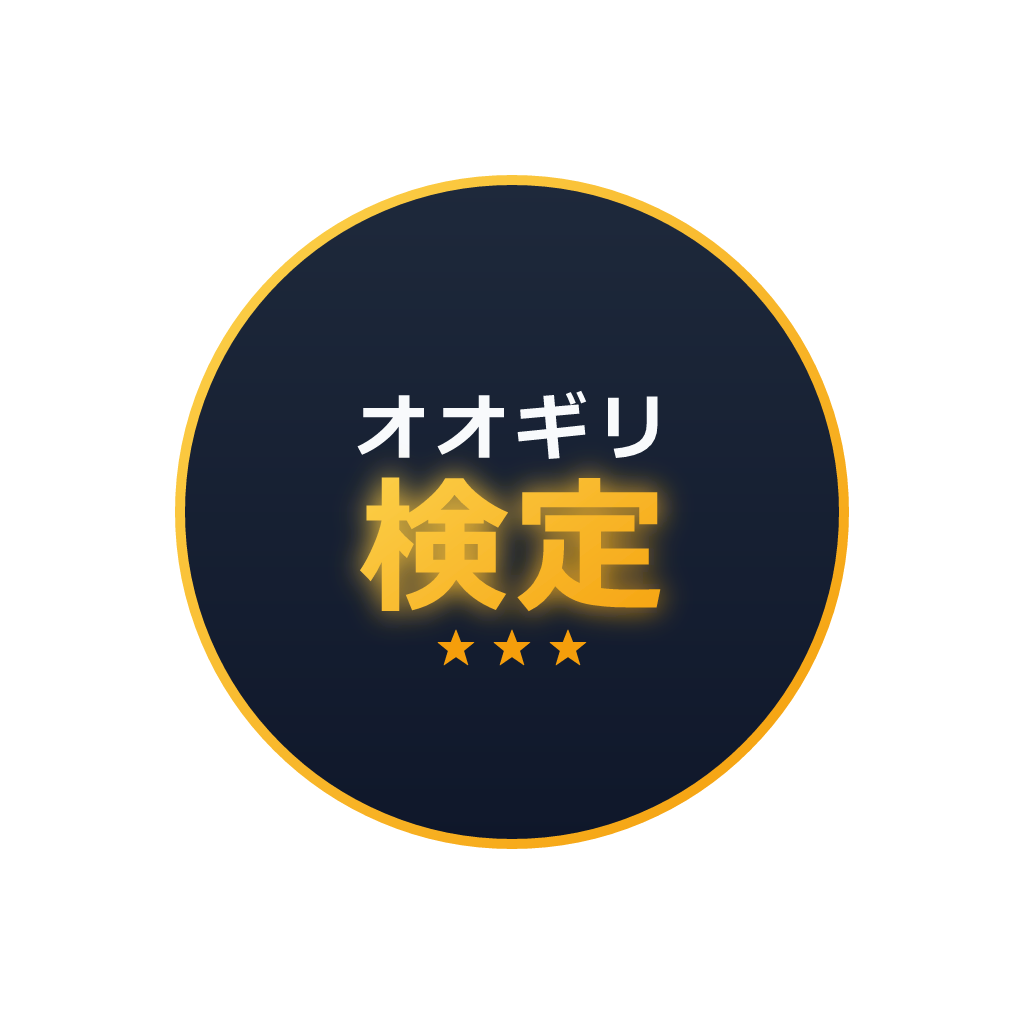
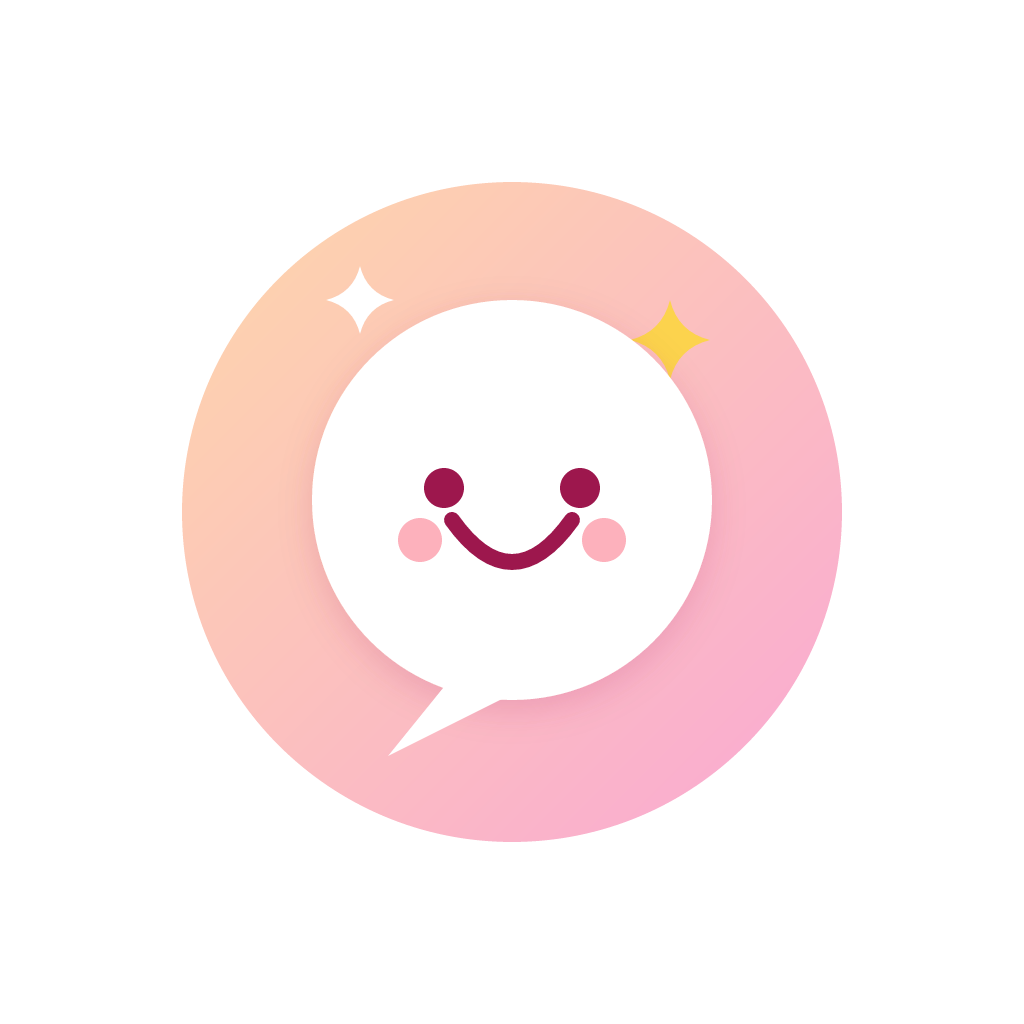
ロゴをやわらかく可愛いデザインに刷新（女性向け）
- ふきだし風にこちゃん＋パステル(ピーチ×ピンク)＋キラキラの可愛いロゴに
  （icon/adaptive/splash/logo/og/logo-wide を再生成）
- スプラッシュ/アダプティブ背景をパステルピンクに変更しロゴと調和

diff --git a/scripts/generate-icons.js b/scripts/generate-icons.js
@@ -1,6 +1,5 @@
 // オオギリ検定 ブランドロゴ／アイコン生成スクリプト
-// 世界観: ダークネイビー × ゴールド（TOEIC/G検定のような「能力検定」トーン）。
-// SVG を定義し @resvg/resvg-js で各サイズの PNG にラスタライズ。日本語は Meiryo。
+// 世界観: やわらかく可愛い（女性向け）。パステルのピーチ×ピンク＋にこちゃん＋キラキラ。
 const fs = require('fs');
 const path = require('path');
 const { Resvg } = require('@resvg/resvg-js');
@@ -9,96 +8,107 @@ const ROOT = path.resolve(__dirname, '..');
 const FONT = 'Meiryo';
 
 const C = {
-  navy1: '#1E293B', // 背景グラデ上
-  navy2: '#0F172A', // 背景グラデ下
-  gold: '#F59E0B',
-  goldLight: '#FCD34D',
-  white: '#F8FAFC',
-  sub: '#94A3B8',
-  purple: '#7C3AED',
+  peach: '#FED7AA',
+  pink: '#F9A8D4',
+  pinkSoft: '#FBCFE8',
+  white: '#FFFFFF',
+  face: '#9D174D', // 目・口（濃いローズ）
+  cheek: '#FB7185',
+  gold: '#FCD34D',
+  name: '#9D174D',
+  navy: '#0F172A',
+  sub: '#B45C81',
 };
 
 const defs = `
-  <linearGradient id="bg" x1="0" y1="0" x2="0" y2="1">
-    <stop offset="0" stop-color="${C.navy1}"/>
-    <stop offset="1" stop-color="${C.navy2}"/>
+  <linearGradient id="bg" x1="0" y1="0" x2="1" y2="1">
+    <stop offset="0" stop-color="${C.peach}"/>
+    <stop offset="1" stop-color="${C.pink}"/>
   </linearGradient>
-  <linearGradient id="goldg" x1="0" y1="0" x2="1" y2="1">
-    <stop offset="0" stop-color="${C.goldLight}"/>
-    <stop offset="1" stop-color="${C.gold}"/>
-  </linearGradient>
-  <filter id="glow" x="-60%" y="-60%" width="220%" height="220%">
-    <feGaussianBlur stdDeviation="14" result="b"/>
-    <feMerge><feMergeNode in="b"/><feMergeNode in="SourceGraphic"/></feMerge>
+  <filter id="soft" x="-30%" y="-30%" width="160%" height="160%">
+    <feDropShadow dx="0" dy="10" stdDeviation="16" flood-color="#9D174D" flood-opacity="0.15"/>
   </filter>`;
 
-// 認定シール（金リング＋オオギリ／検定／★★★）。座標は 1024 系。
-function sealBody(withBg) {
+// キラキラ（4ポイントの星）
+function sparkle(cx, cy, s, color) {
+  return `<path d="M ${cx} ${cy - s} Q ${cx + s * 0.2} ${cy - s * 0.2} ${cx + s} ${cy}
+    Q ${cx + s * 0.2} ${cy + s * 0.2} ${cx} ${cy + s}
+    Q ${cx - s * 0.2} ${cy + s * 0.2} ${cx - s} ${cy}
+    Q ${cx - s * 0.2} ${cy - s * 0.2} ${cx} ${cy - s} Z" fill="${color}"/>`;
+}
+
+// ふきだし風の可愛いにこちゃん（大喜利＝しゃべる/笑うモチーフ）
+function smiley(cx, cy, r) {
+  const eR = r * 0.1;
   return `
-    ${withBg ? `<rect width="1024" height="1024" rx="225" fill="url(#bg)"/>` : ''}
-    <circle cx="512" cy="512" r="402" fill="none" stroke="url(#goldg)" stroke-width="14"/>
-    <circle cx="512" cy="512" r="372" fill="none" stroke="${C.gold}" stroke-opacity="0.4" stroke-width="3"/>
-    <text x="512" y="318" font-family="${FONT}" font-weight="700" font-size="112" fill="${C.white}" text-anchor="middle" dominant-baseline="central" letter-spacing="14">オオギリ</text>
-    <text x="512" y="520" font-family="${FONT}" font-weight="900" font-size="240" fill="url(#goldg)" text-anchor="middle" dominant-baseline="central" filter="url(#glow)" letter-spacing="8">検定</text>
-    <text x="512" y="712" font-family="${FONT}" font-weight="900" font-size="86" fill="${C.gold}" text-anchor="middle" dominant-baseline="central" letter-spacing="14">★★★</text>`;
+    <circle cx="${cx}" cy="${cy}" r="${r}" fill="${C.white}" filter="url(#soft)"/>
+    <path d="M ${cx - r * 0.28} ${cy + r * 0.86} L ${cx - r * 0.62} ${cy + r * 1.28} L ${cx - r * 0.02} ${cy + r * 0.98} Z" fill="${C.white}"/>
+    <circle cx="${cx - r * 0.34}" cy="${cy - r * 0.06}" r="${eR}" fill="${C.face}"/>
+    <circle cx="${cx + r * 0.34}" cy="${cy - r * 0.06}" r="${eR}" fill="${C.face}"/>
+    <circle cx="${cx - r * 0.46}" cy="${cy + r * 0.2}" r="${r * 0.11}" fill="${C.cheek}" opacity="0.55"/>
+    <circle cx="${cx + r * 0.46}" cy="${cy + r * 0.2}" r="${r * 0.11}" fill="${C.cheek}" opacity="0.55"/>
+    <path d="M ${cx - r * 0.3} ${cy + r * 0.1} Q ${cx} ${cy + r * 0.52} ${cx + r * 0.3} ${cy + r * 0.1}"
+      stroke="${C.face}" stroke-width="${r * 0.08}" fill="none" stroke-linecap="round"/>`;
 }
 
 function iconSVG() {
   return `<svg width="1024" height="1024" viewBox="0 0 1024 1024" xmlns="http://www.w3.org/2000/svg">
   <defs>${defs}</defs>
-  ${sealBody(true)}
+  <rect width="1024" height="1024" rx="240" fill="url(#bg)"/>
+  ${sparkle(240, 250, 46, C.white)}
+  ${sparkle(812, 300, 60, C.gold)}
+  ${sparkle(792, 720, 38, C.white)}
+  ${smiley(512, 430, 250)}
+  <text x="512" y="812" font-family="${FONT}" font-weight="900" font-size="128" fill="${C.name}" text-anchor="middle" dominant-baseline="central" letter-spacing="2">オオギリ検定</text>
 </svg>`;
 }
 
-// Android アダプティブ前景（透過・セーフエリア内の円シール）
+// Android アダプティブ前景（透過・セーフエリア内）
 function adaptiveSVG() {
   return `<svg width="1024" height="1024" viewBox="0 0 1024 1024" xmlns="http://www.w3.org/2000/svg">
   <defs>${defs}</defs>
-  <circle cx="512" cy="512" r="332" fill="url(#bg)" stroke="url(#goldg)" stroke-width="10"/>
-  <text x="512" y="432" font-family="${FONT}" font-weight="700" font-size="72" fill="${C.white}" text-anchor="middle" dominant-baseline="central" letter-spacing="8">オオギリ</text>
-  <text x="512" y="556" font-family="${FONT}" font-weight="900" font-size="150" fill="url(#goldg)" text-anchor="middle" dominant-baseline="central" filter="url(#glow)" letter-spacing="6">検定</text>
-  <text x="512" y="650" font-family="${FONT}" font-weight="900" font-size="48" fill="${C.gold}" text-anchor="middle" dominant-baseline="central" letter-spacing="8">★★★</text>
+  <circle cx="512" cy="512" r="330" fill="url(#bg)"/>
+  ${sparkle(360, 300, 34, C.white)}
+  ${sparkle(670, 340, 40, C.gold)}
+  ${smiley(512, 500, 200)}
 </svg>`;
 }
 
-function sealGroup(tx, ty, scale) {
-  return `<g transform="translate(${tx},${ty}) scale(${scale})">${sealBody(true)}</g>`;
+// 横長ロゴ（ヘッダー用・透過。ネイビー背景でも映えるよう文字は白＋ピンク）
+function bannerSVG() {
+  return `<svg width="1200" height="280" viewBox="0 0 1200 280" xmlns="http://www.w3.org/2000/svg">
+  <defs>${defs}</defs>
+  ${smiley(150, 140, 108)}
+  ${sparkle(276, 60, 26, C.gold)}
+  <text x="322" y="140" font-family="${FONT}" font-weight="900" font-size="122" fill="${C.white}" dominant-baseline="central">オオギリ<tspan fill="${C.pink}">検定</tspan></text>
+</svg>`;
 }
 
-// OGP / Twitter カード（1200x630）
+// OGP / Twitter カード（1200x630・パステル背景）
 function ogSVG() {
   return `<svg width="1200" height="630" viewBox="0 0 1200 630" xmlns="http://www.w3.org/2000/svg">
   <defs>${defs}</defs>
   <rect width="1200" height="630" fill="url(#bg)"/>
-  ${sealGroup(86, 151, 0.32)}
-  <text x="455" y="232" font-family="${FONT}" font-weight="900" font-size="84" fill="${C.white}">オオギリ検定</text>
-  <text x="457" y="328" font-family="${FONT}" font-weight="700" font-size="38" fill="${C.goldLight}">AIがあなたの発想力を測定し、段位を認定。</text>
-  <text x="457" y="404" font-family="${FONT}" font-weight="400" font-size="30" fill="${C.sub}">受験 → 採点 → 認定 → 昇段</text>
-  <text x="457" y="462" font-family="${FONT}" font-weight="400" font-size="28" fill="${C.sub}">偏差値・全国ランキング・ログイン不要で今すぐ受験</text>
+  ${sparkle(120, 120, 34, C.white)}
+  ${sparkle(1080, 130, 46, C.gold)}
+  ${sparkle(1120, 520, 30, C.white)}
+  ${smiley(250, 315, 175)}
+  <text x="470" y="250" font-family="${FONT}" font-weight="900" font-size="92" fill="${C.name}">オオギリ検定</text>
+  <text x="472" y="348" font-family="${FONT}" font-weight="700" font-size="40" fill="${C.face}">あなたのお笑いセンスを、AIが認定。</text>
+  <text x="472" y="424" font-family="${FONT}" font-weight="400" font-size="30" fill="${C.sub}">偏差値・段位・タイプ診断　ログイン不要で今すぐ受験</text>
 </svg>`;
 }
 
-// スプラッシュ（ネイビー背景・中央にシール＋ブランド名）
+// スプラッシュ（パステル背景・中央にロゴ）
 function splashSVG() {
   return `<svg width="1242" height="1334" viewBox="0 0 1242 1334" xmlns="http://www.w3.org/2000/svg">
   <defs>${defs}</defs>
-  <rect width="1242" height="1334" fill="${C.navy2}"/>
-  ${sealGroup(341, 250, 0.547)}
-  <text x="621" y="980" font-family="${FONT}" font-weight="900" font-size="92" fill="${C.white}" text-anchor="middle" dominant-baseline="central">オオギリ検定</text>
-  <text x="621" y="1060" font-family="${FONT}" font-weight="400" font-size="38" fill="${C.goldLight}" text-anchor="middle" dominant-baseline="central">AIがあなたの発想力を段位で認定。</text>
-</svg>`;
-}
-
-// 横長ロゴ（ヘッダー／スタート画面でタイトル代わりに使う・透過）
-function bannerSVG() {
-  return `<svg width="1200" height="280" viewBox="0 0 1200 280" xmlns="http://www.w3.org/2000/svg">
-  <defs>${defs}</defs>
-  <g transform="translate(150,140)">
-    <circle r="118" fill="none" stroke="url(#goldg)" stroke-width="11"/>
-    <circle r="98" fill="none" stroke="${C.gold}" stroke-opacity="0.45" stroke-width="3"/>
-    <text x="0" y="6" font-family="${FONT}" font-weight="900" font-size="120" fill="url(#goldg)" text-anchor="middle" dominant-baseline="central" filter="url(#glow)">★</text>
-  </g>
-  <text x="320" y="140" font-family="${FONT}" font-weight="900" font-size="120" fill="${C.white}" dominant-baseline="central">オオギリ<tspan fill="${C.goldLight}">検定</tspan></text>
+  <rect width="1242" height="1334" fill="url(#bg)"/>
+  ${sparkle(300, 430, 44, C.white)}
+  ${sparkle(940, 470, 58, C.gold)}
+  ${smiley(621, 560, 240)}
+  <text x="621" y="900" font-family="${FONT}" font-weight="900" font-size="118" fill="${C.name}" text-anchor="middle" dominant-baseline="central" letter-spacing="2">オオギリ検定</text>
+  <text x="621" y="980" font-family="${FONT}" font-weight="400" font-size="40" fill="${C.face}" text-anchor="middle" dominant-baseline="central">あなたのお笑いセンスを、AIが認定。</text>
 </svg>`;
 }
 

diff --git a/app.config.js b/app.config.js
@@ -10,7 +10,7 @@ module.exports = {
     splash: {
       image: './assets/splash.png',
       resizeMode: 'contain',
-      backgroundColor: '#0F172A',
+      backgroundColor: '#FBCFE8',
     },
     assetBundlePatterns: ['**/*'],
     ios: {
@@ -26,7 +26,7 @@ module.exports = {
     android: {
       adaptiveIcon: {
         foregroundImage: './assets/adaptive-icon.png',
-        backgroundColor: '#0F172A',
+        backgroundColor: '#FBCFE8',
       },
       package: 'com.ogiriapp.mobile',
       permissions: [
